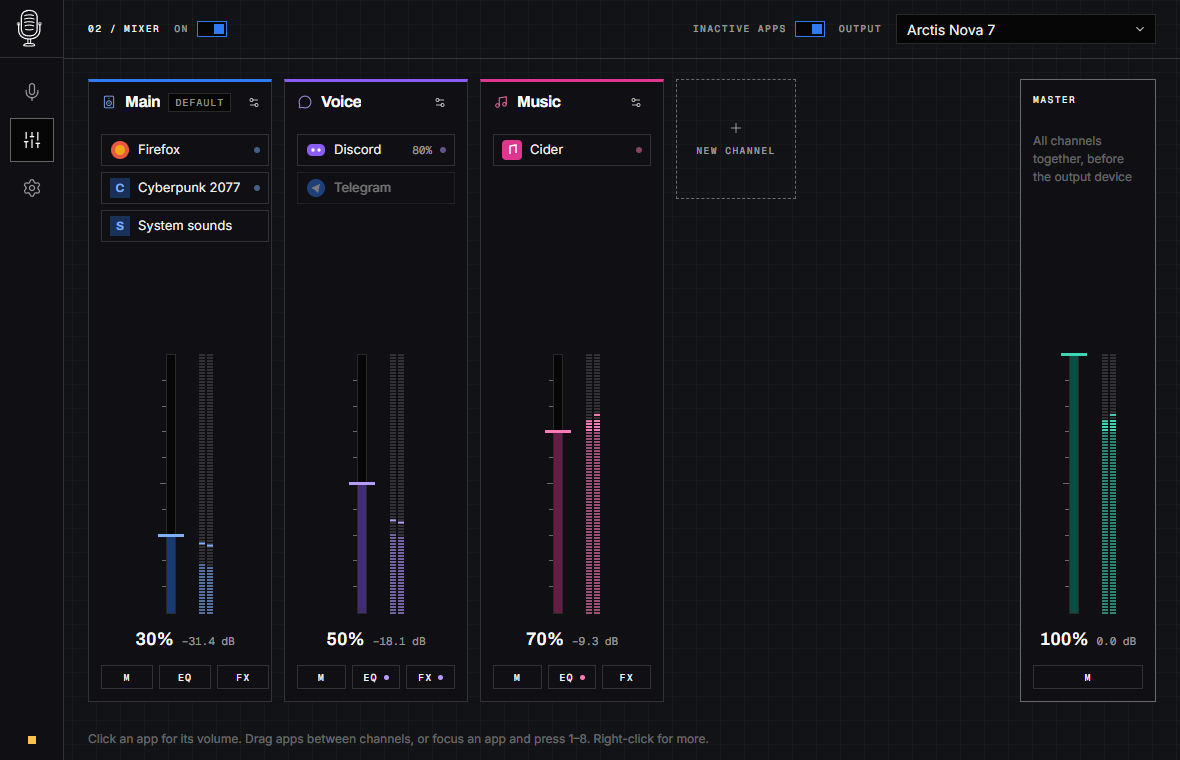
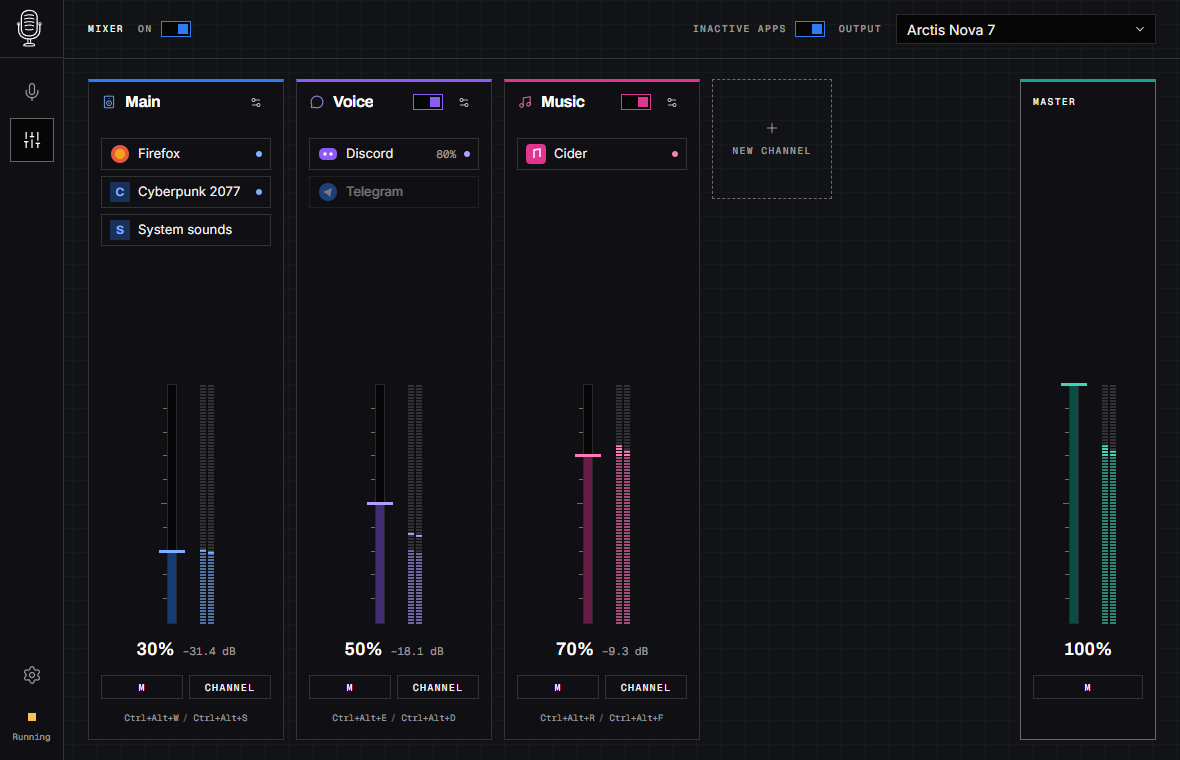
docs: mark Windows 11 working and Linux experimental

diff --git a/README.md b/README.md
@@ -6,23 +6,24 @@
 </p>
 
 <p align="center">
-  <b>Lightweight, open-source microphone processing and per-app audio mixer for Linux and Windows.</b>
+  <b>Open-source microphone processing and per-app audio mixer for Windows 11. Linux support is experimental.</b>
 </p>
 
 <p align="center">
   <img alt="License: GPL-3.0-only" src="https://img.shields.io/badge/license-GPL--3.0--only-blue">
   <img alt="Rust 2024" src="https://img.shields.io/badge/rust-2024-orange">
-  <img alt="Linux: PipeWire" src="https://img.shields.io/badge/linux-PipeWire-informational">
-  <img alt="Windows: VB-CABLE" src="https://img.shields.io/badge/windows-VB--CABLE-informational">
+  <img alt="Windows 11: working" src="https://img.shields.io/badge/Windows_11-working-success">
+  <img alt="Linux: experimental" src="https://img.shields.io/badge/Linux-experimental-orange">
 </p>
 
-![Microphone screen](docs/images/microphone.png)
+![Windows microphone screen](docs/images/microphone.png)
 
 ## What it does
 
 **A clean voice in every app.** Macafon takes your physical microphone, runs it through a studio chain —
 Gain → High-pass → AI noise suppression → Expander → EQ → Compressor → De-esser → Limiter — and exposes
-the result as a virtual microphone, **Macafon Microphone**, that you pick in Discord, OBS, Zoom or games.
+the result as a virtual microphone for Discord, OBS, Zoom or games. On Windows, select
+**CABLE Output (VB-Audio Virtual Cable)** in those apps.
 
 - One slider per module, with every parameter one click away under *Advanced*.
 - Two-step auto-calibration (stay silent, read a sentence) sets gain, noise gate and noise suppression.
@@ -35,65 +36,103 @@ and are dragged between channels; Macafon remembers where each app belongs.
 
 ![Mixer screen](docs/images/mixer.png)
 
-**Stays out of the way.** A small daemon runs in the tray and starts with your session; the window
-unloads completely when closed. Global hotkeys (mute, push-to-talk, presets, channel volume), a CLI for
-scripts, and a *Doctor* that checks the setup and fixes common problems in one click. No accounts, no
-cloud, no telemetry.
+**Windows controls.** Master follows the actual Windows volume and mute in both directions. Every action
+supports primary and secondary hotkeys, with separate left/right Ctrl and Alt. Volume shortcuts repeat
+while held and use your chosen step. Assigned shortcuts appear beside the controls.
 
-## Platforms
+**Always within reach.** A tray panel, a hotkey mixer overlay and volume popups on the active or primary
+monitor. The daemon keeps processing with the main window closed; on Windows the hidden panel stays
+ready in the background. Autostart, CLI commands and a *Doctor* for setup checks are included.
 
-| | Linux | Windows 10 22H2+ / 11 |
-|---|---|---|
-| Virtual microphone | Created by Macafon in PipeWire | The free [VB-CABLE](https://vb-audio.com/Cable/) driver, installed by you |
-| Mic latency without noise suppression | ≈ 2.7 ms (one graph cycle) | Higher: two WASAPI passes plus the cable buffer |
-| Mixer channels | Real virtual devices with per-channel EQ, noise suppression, compressor, limiter | Volume groups over Windows audio sessions, no per-channel effects |
-| Requirements | PipeWire ≥ 1.0, WirePlumber ≥ 0.5 | VB-CABLE; no administrator rights for Macafon itself |
+**Optional DAC controls.** When an iBasso Jr. Macaron is connected, device settings expose hardware volume,
+balance, digital filter, gain and output mode. Volume is read from the device and follows its buttons.
 
-Why Windows works this way is explained in [ADR-0004](docs/adr/0004-windows-free-vb-cable.md).
+Audio processing runs locally. No accounts, cloud audio processing or telemetry.
 
 ## Status
 
-Pre-release. The Linux microphone (M1) and mixer (M2) and the Windows port (M3) are implemented and
-tested locally; there are no published releases yet. Known gaps and measured limits are tracked in the
-[release checklist](docs/qa/release-checklist.md) — notably the Lite noise suppression latency (≈ 22.7 ms
-against a 13 ms target) and the Windows microphone latency, which depends mostly on the VB-CABLE buffer.
+**Windows 11: working.** The microphone chain, calibration, Before/After recording, application mixer,
+system Master, tray, hotkeys, overlays, Macaron controls and installer are implemented and tested locally
+on Windows 11. The project is currently version **0.1.0**; the available Windows features are functional.
+
+**Linux: experimental.** The PipeWire backend, virtual microphone and channel effects are implemented,
+but Linux builds and desktop integration need further validation. Linux is not covered by the Windows
+build workflow.
+
+Latency depends on the microphone and VB-CABLE buffers. Measurements and remaining release criteria
+are recorded in the [release checklist](docs/qa/release-checklist.md).
+
+## Download for Windows 11
+
+1. Open [Windows 11 build](https://github.com/Mar1kLab/Macafon/actions/workflows/windows-build.yml).
+2. Open the latest successful run and download **Macafon-Windows11-x64** from **Artifacts**.
+3. Extract the ZIP and run `Macafon_0.1.0_x64-setup.exe`. `SHA256SUMS.txt` contains its SHA-256 checksum.
+4. For the virtual microphone, install the free [VB-CABLE](https://vb-audio.com/Cable/) separately,
+   then select **CABLE Output (VB-Audio Virtual Cable)** in Discord, OBS, Zoom or your game.
+
+GitHub requires sign-in and repository access to download workflow artifacts. Artifacts are retained
+for 30 days. The per-user installer does not require administrator rights for Macafon itself; installing
+the separate VB-CABLE driver does. The current installer is unsigned.
+
+An upgrade stops the running daemon, replaces the binaries and starts it again, keeping settings and
+autostart. Uninstall restores default audio devices and managed application volumes; explicit changes
+to system Master volume remain yours.
+
+## Platforms
+
+| | Windows 11 | Linux (experimental) |
+|---|---|---|
+| Virtual microphone | Free VB-CABLE, installed separately | Created by Macafon in PipeWire |
+| Mixer | Up to eight application volume groups over Windows audio sessions | Virtual channels with EQ and effects |
+| Master | System output volume and mute | Master gain over Macafon channels |
+| Channel effects | Unavailable in Windows sessions mode; the future extra-cable mode is disabled | EQ, noise suppression, compressor and limiter |
+| Requirements | VB-CABLE for microphone processing; WebView2 for the UI | PipeWire >= 1.0, WirePlumber >= 0.5 |
+
+Windows architecture: [ADR-0004](docs/adr/0004-windows-free-vb-cable.md).
 
 ## Building
 
-You need stable Rust, Node.js with pnpm (Corepack is fine) and the platform prerequisites below.
+### Windows 11
 
-### Linux
+Install stable Rust, Node.js 24, Python 3.12 or newer, and the
+[Tauri Windows prerequisites](https://v2.tauri.app/start/prerequisites/#windows)
+(Microsoft C++ Build Tools with Desktop development with C++, and WebView2).
+The workflow uses Rust 1.99.0 and pnpm 12.11.2.
+
+```powershell
+npm install --global corepack@0.35.0
+corepack enable
+corepack pnpm -C apps/macafon-ui install --frozen-lockfile
+python tools/package-windows.py            # target/release/bundle/nsis/
+python tools/package-windows.py --install  # build, then install or upgrade
+```
+
+The manual [Windows workflow](.github/workflows/windows-build.yml) runs the same packaging script on a
+GitHub-hosted Windows runner and uploads the installer and checksum. It does not install the app or
+VB-CABLE on the runner.
+
+### Linux (experimental)
+
+You need stable Rust, Node.js with pnpm, Python 3 and the platform dependencies:
 
 ```sh
 # Ubuntu / Debian
 sudo apt install build-essential pkg-config libclang-dev libpipewire-0.3-dev pipewire-bin \
                  libwebkit2gtk-4.1-dev libgtk-3-dev libdbus-1-dev
-pnpm -C apps/macafon-ui install --frozen-lockfile
-python3 tools/package-linux.py      # deb, rpm and AppImage under target/release/bundle/
+corepack pnpm -C apps/macafon-ui install --frozen-lockfile
+python3 tools/package-linux.py     # deb, rpm and AppImage under target/release/bundle/
 ```
 
-Or run from source without packaging:
+Or run from source:
 
 ```sh
 cargo build --release -p macafond -p macafon-cli
 target/release/macafond devices
-target/release/macafond run --input '<physical node.name>'   # remembered afterwards
-pnpm -C apps/macafon-ui tauri dev                           # the desktop UI
+target/release/macafond run --input '<physical node.name>'
+corepack pnpm -C apps/macafon-ui tauri dev
 ```
 
-Then select **Macafon Microphone** in your apps. An AUR recipe is under `packaging/aur/`.
-
-### Windows
-
-```sh
-python tools/package-windows.py     # per-user NSIS installer under target/release/bundle/nsis/
-python tools/package-windows.py --install   # build, then install or upgrade in place
-```
-
-The installer needs no administrator rights and does not include VB-CABLE: onboarding links to the
-official VB-Audio download page. Uninstalling gives back your default microphone, output and app volumes.
-An upgrade over a running Macafon stops the daemon, replaces the binaries and starts it again;
-settings and autostart are kept.
+Select **Macafon Microphone** in your apps. An experimental AUR recipe is under `packaging/aur/`.
 
 ## Command line
 
@@ -103,6 +142,7 @@ macafon ctl preset broadcast        # natural, discord-clear, noisy-room, broadc
 macafon ctl mute                    # toggle; also mute on|off, bypass on|off
 macafon ctl mic mute toggle         # for desktop shortcuts
 macafon ctl channel voice volume +5
+macafon ctl channel master volume -5
 macafon ctl apps move bin:firefox music
 macafon ctl doctor
 ```
@@ -115,7 +155,7 @@ The UI runs in a regular browser against a mock daemon — no audio stack needed
 pnpm -C apps/macafon-ui dev         # http://127.0.0.1:1420, add ?platform=windows for the Windows UI
 ```
 
-Checks are targeted and local (there is no cloud CI):
+Checks remain targeted and local. GitHub Actions currently provides the manual Windows installer build:
 
 ```sh
 cargo fmt

diff --git a/docs/PRD.md b/docs/PRD.md
@@ -1039,8 +1039,9 @@ mic_mute_toggle = "Ctrl+Alt+M"
 | PipeWire integration | Headless PipeWire + WirePlumber in a CI container: node creation, moving streams (`pw-play` as an "application"), nodes disappearing when the daemon stops | GitHub Actions |
 | UI | Component tests (Vitest), e2e (WebDriver through `tauri-driver`) for onboarding and D&D | CI |
 
-Per [AGENTS.md](../AGENTS.md) there is no cloud CI for now: these checks run locally (the headless PipeWire
-tests through `tools/tests/*.py`).
+These checks run locally (the headless PipeWire tests through `tools/tests/*.py`). The owner authorized
+a manual GitHub Actions Windows installer build on 2026-10-17; other cloud CI remains out of scope per
+[AGENTS.md](../AGENTS.md).
 
 ### 14.2 Manual testing
 
@@ -1069,9 +1070,11 @@ Steam + a Proton game, a native game (SDL), mpv, OBS (as a consumer of the virtu
 | Windows: a per-user installer (no administrator rights) | P0 (M3) | Authenticode signing through SignPath Foundation (free for OSS); the user installs VB-CABLE themselves |
 | Auto-update | P1 | Only a new-version notification (opt-in); updating through the package manager / installer |
 
-Build: lint (`clippy -D warnings`, `rustfmt`, eslint/prettier), tests, benchmarks, building packages on a
-`v*` tag. Planned for GitHub Actions; per [AGENTS.md](../AGENTS.md) it runs locally until the owner decides
-otherwise.
+Windows 11 is the working platform; Linux remains experimental (owner decision, 2026-10-17).
+The manual `Windows 11 build` GitHub Actions workflow builds the x64 per-user NSIS installer and uploads
+it with SHA-256 checksums as a 30-day artifact. It uses the existing Windows packaging script; no driver,
+installation on the runner, signing or automatic release publishing is added. Other checks and Linux
+packaging remain local per [AGENTS.md](../AGENTS.md).
 
 ## 16. Risks
 
@@ -1140,7 +1143,8 @@ available there (ADR-0004).
 The basis is §12.2 and [ADR-0004](adr/0004-windows-free-vb-cable.md): only the free VB-CABLE (one cable) for
 the virtual microphone, the mixer as volume groups without effects. No driver, APO or services of our own.
 Checks run locally on a Windows test machine (Windows 10 22H2 and Windows 11 24H2/25H2 with VB-CABLE
-installed), there is no cloud CI (AGENTS.md). Progress — [windows-m3.md](development/windows-m3.md).
+installed). A manual GitHub Actions workflow also builds the Windows x64 installer (owner authorization,
+2026-10-17); live audio checks remain local. Progress — [windows-m3.md](development/windows-m3.md).
 
 | Step | Content | Done when |
 |---|---|---|

diff --git a/AGENTS.md b/AGENTS.md
@@ -1,13 +1,13 @@
 # AGENTS.md — guidelines for agents and Macafon developers
 
 Read this file before any work in the repository. On process questions it overrides the PRD: if the
-PRD mentions something this file forbids (for example, CI on GitHub Actions), this file wins.
+PRD mentions something this file forbids, this file wins.
 
 ## 1. Project context
 
 Macafon is a lightweight open-source Rust application: microphone processing (DSP chain + virtual
-microphone) and a per-channel audio mixer with drag & drop of applications. Linux (PipeWire) first,
-Windows second.
+microphone) and a per-channel audio mixer with drag & drop of applications. Windows 11 is the working platform;
+Linux (PipeWire) is experimental (owner decision, 2026-10-17).
 
 | Document | Why read it |
 |---|---|
@@ -22,8 +22,9 @@ features without a direct request, but keep things extensible where the PRD expl
 
 ## 2. Process
 
-- **No GitHub Actions** until the owner explicitly says otherwise. Do not create `.github/workflows/`
-  and do not propose "adding CI" as part of a task. All checks run locally.
+- **GitHub Actions scope.** The owner authorized a manual Windows 11 x64 installer build on
+  2026-10-17 (`.github/workflows/windows-build.yml`). Keep other checks local; additional cloud CI,
+  Linux workflows and automated release publishing need explicit owner authorization.
 - **No bureaucracy.** No issue/PR templates, CHANGELOG ceremonies, extra READMEs in every folder or
   documents "for the future". Write an ADR only for real architecture decisions (choosing an approach
   that is hard to roll back) — short, following `docs/adr/0001-*.md`.
@@ -119,7 +120,7 @@ Short:
 
 ## 8. Forbidden without the owner's explicit permission
 
-- GitHub Actions and any cloud CI.
+- Cloud CI beyond the authorized manual Windows installer workflow.
 - Telemetry, analytics, network requests (except the opt-in update check from the PRD).
 - Root/administrator actions at runtime beyond what the PRD describes (none on Windows, except the
   WIN-MIC-010 option).
